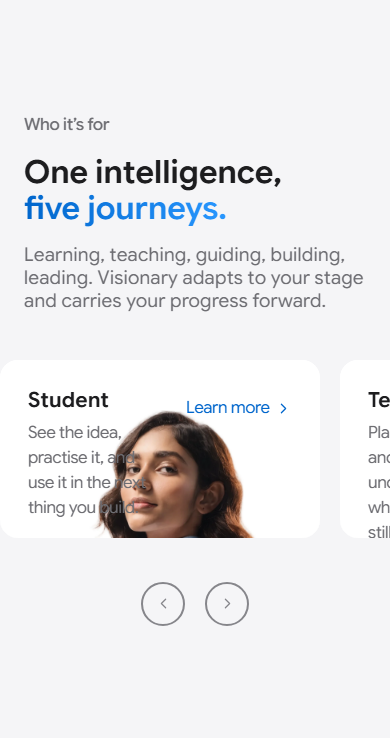
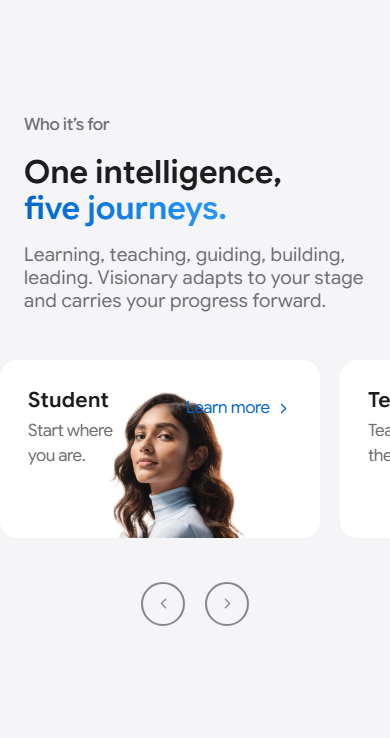
FHE-01 (V10): the line-up cards reach the Duo tile — subject large, text minimal
Founder verdict on the previous iteration: sparse and small — the real
Duo tile is FULL. The product is huge and centred, the text is minimal,
and nothing else competes. Rebuilt to that measure:

- The portrait renders at 135% of the tile height, top set at 18%: the
  face is the tile's hero, the chest crops at the floor the way Apple's
  phone crops — no more small subject in white voids, no harsh
  mid-chest crop line
- The card copy retires to Duo-length fragments ('Start where you
  are.', 'Teach in the moment.', 'See the progress.', 'Build what's
  next.', 'Lead the learning.') — 'Hello, hello.' voice; the long
  sentences were the clutter that collided with the head
- Text row unchanged: name + fragment top-left, Learn more top-right

Verified: capture reads as the Duo tile — face as hero, fragment,
link; quality gate PASS; 871/871 tests after scope refresh; lint
clean.

Changed region(s): [[0.0615, 0.5298, 0.6462, 0.748], [0.9231, 0.561, 1.0, 0.748]]

diff --git a/visionary-app/frontend/src/components/landing/persona/premium/PremiumExploreSection.jsx b/visionary-app/frontend/src/components/landing/persona/premium/PremiumExploreSection.jsx
@@ -15,14 +15,13 @@ import LazyImage from "@/components/landing/LazyImage";
    affordance, snap points for the swipe, and centred round chevrons beneath. */
 
 /* The line-up card in the iPhone Duo chapter's grammar (founder's capture
-   of the live tile): a WIDE landscape tile — the photograph fills it with
-   the subject cropped at the bottom edge, the name and its one quiet line
-   sit TOP-LEFT inside the tile, and the door (Learn more) sits TOP-RIGHT
-   opposite them, exactly the Duo's composition. Our portraits are
-   white-ground and top-anchored (object-position keeps the head below the
-   text, the body crops at the floor like Apple's product), and a soft
-   white scrim — invisible on the studio ground — guarantees the text's
-   legibility where a subject reaches up (the parent pair). */
+   of the live tile): a WIDE landscape tile where the product is LARGE —
+   centred, rising from the lower half, cropped by the tile's floor — and
+   the text is minimal: the name and a Duo-length fragment ("Hello,
+   hello.") top-left, the quiet door top-right. Our portraits render at
+   135% of the tile height with their top set at 18%, so the face is the
+   tile's hero and the chest crops at the floor the way Apple's phone
+   crops — the long sentences are retired from the tile: fragments only. */
 const PremiumExploreCard = React.memo(function PremiumExploreCard({ category, image }) {
   return (
     <Link
@@ -32,21 +31,15 @@ const PremiumExploreCard = React.memo(function PremiumExploreCard({ category, im
       className="stagger-child group relative block w-[82vw] max-w-[660px] shrink-0 snap-start overflow-hidden rounded-[18px] bg-white transition-transform duration-300 ease-apple hover:-translate-y-1 sm:w-[660px]"
     >
       <div className="media-settle relative aspect-[9/5] overflow-hidden bg-white">
-        {/* the photograph anchors to the tile's lower four-fifths — the top
-            strip stays the empty studio ground the Duo's text lives in, and
-            the body crops at the floor like Apple's product at its tile */}
-        <div className="absolute inset-x-0 bottom-0 h-[72%]">
-          <LazyImage
-            src={image}
-            alt={category.alt}
-            decoding="async"
-            draggable="false"
-            className="h-full w-full select-none object-cover object-top transition-transform duration-500 ease-apple group-hover:scale-[1.04]"
-            style={{ objectPosition: "50% 0%" }}
-          />
-        </div>
+        <LazyImage
+          src={image}
+          alt={category.alt}
+          decoding="async"
+          draggable="false"
+          className="absolute left-1/2 top-[18%] h-[135%] w-auto max-w-none -translate-x-1/2 select-none transition-transform duration-500 ease-apple group-hover:scale-[1.03]"
+        />
       </div>
-      {/* the Duo text row: name and its line top-left, the door top-right */}
+      {/* the Duo text row: name and its fragment top-left, the door top-right */}
       <div className="absolute inset-x-0 top-0 flex items-start justify-between gap-6 p-7 lg:p-8">
         <div>
           <h3
@@ -57,8 +50,8 @@ const PremiumExploreCard = React.memo(function PremiumExploreCard({ category, im
             {category.chip}
           </h3>
           <p
-            className="mt-2 text-balance font-normal tracking-[0] leading-[1.4] text-[18px]"
-            style={{ color: color.slate, maxWidth: "30ch" }}
+            className="mt-1.5 text-balance font-normal tracking-[0] leading-[1.4] text-[18px]"
+            style={{ color: color.slate, maxWidth: "22ch" }}
           >
             {category.copy}
           </p>

diff --git a/visionary-app/frontend/src/pages/Landing.jsx b/visionary-app/frontend/src/pages/Landing.jsx
@@ -53,11 +53,11 @@ const PROBLEM_SLIDES = [
 const ROUTER_IMAGES = [studentmeet, teachermeet, parentmeet, promeet, orgmeet];
 
 const ROUTER_CATEGORIES = [
-  { slug: "student", chip: "Student", copy: "See the idea, practise it, and use it in the next thing you build.", alt: "Student studying with books" },
-  { slug: "teacher", chip: "Teacher", copy: "Plan, explain, and check understanding while the lesson is still in front of you.", alt: "Teacher presenting at a whiteboard" },
-  { slug: "parent", chip: "Parent", copy: "See the progress behind the report and find a useful next step at home.", alt: "Parent helping child with homework" },
-  { slug: "professional", chip: "Professional", copy: "Turn a question, project, or new skill into work you can use.", alt: "Professional writing notes beside a laptop" },
-  { slug: "organization", chip: "Organization", copy: "Give teams a shared view of learning across people, projects, and time.", alt: "Leader reviewing team progress on a tablet" },
+  { slug: "student", chip: "Student", copy: "Start where you are.", alt: "Student studying with books" },
+  { slug: "teacher", chip: "Teacher", copy: "Teach in the moment.", alt: "Teacher presenting at a whiteboard" },
+  { slug: "parent", chip: "Parent", copy: "See the progress.", alt: "Parent helping child with homework" },
+  { slug: "professional", chip: "Professional", copy: "Build what’s next.", alt: "Professional writing notes beside a laptop" },
+  { slug: "organization", chip: "Organization", copy: "Lead the learning.", alt: "Leader reviewing team progress on a tablet" },
 ];
 
 
